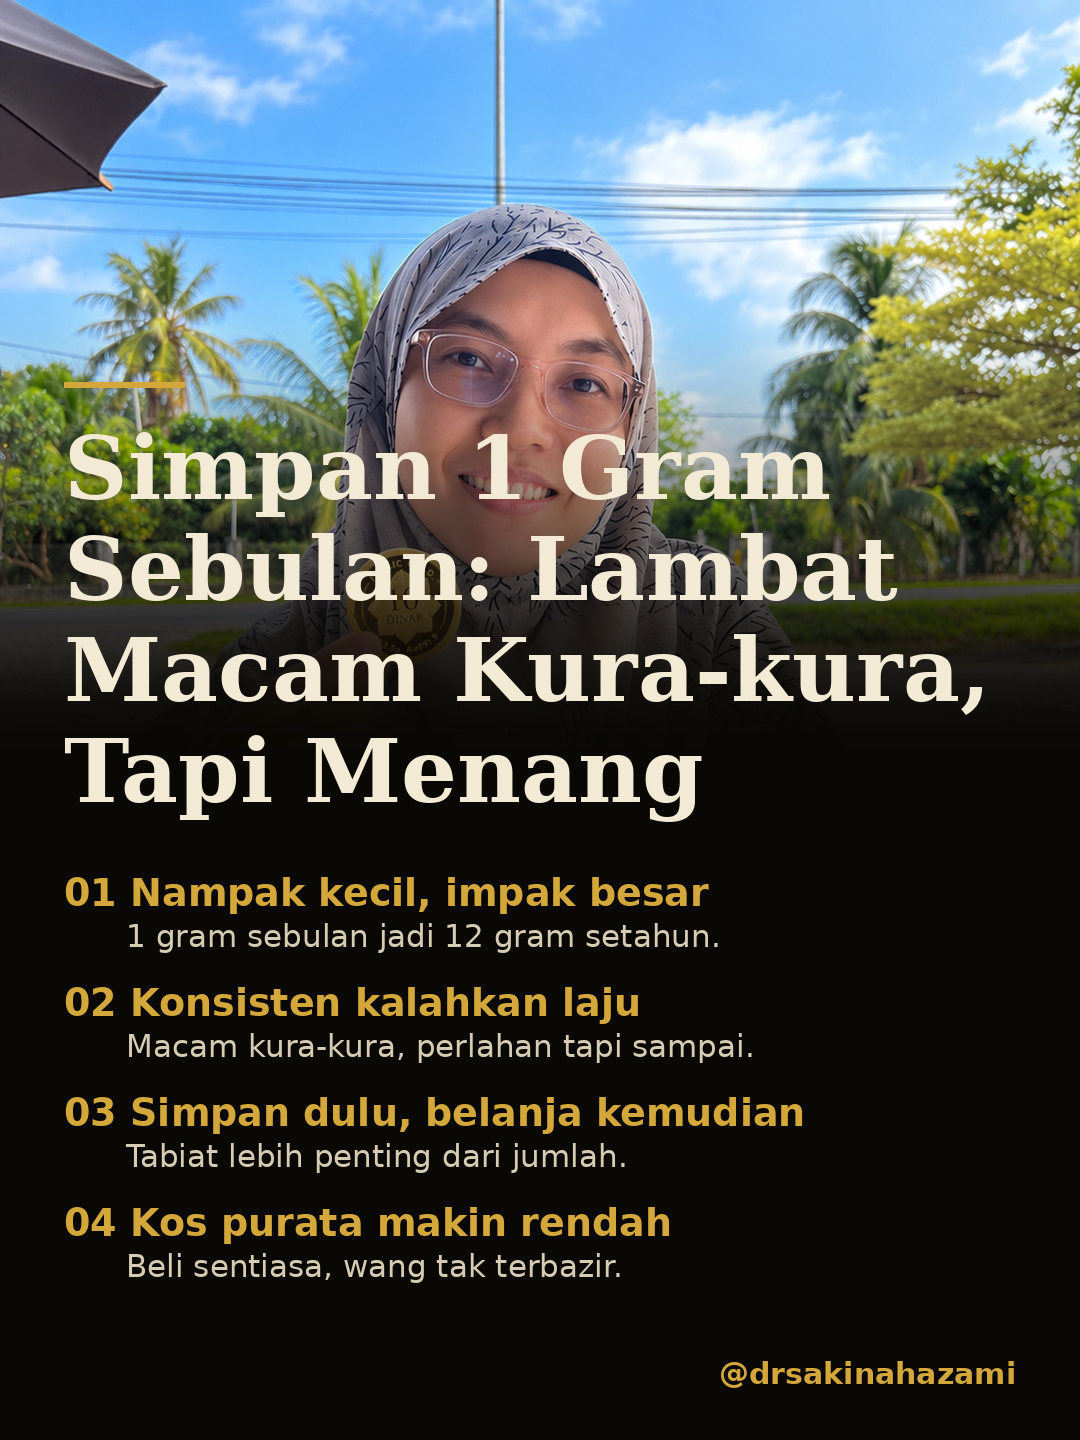
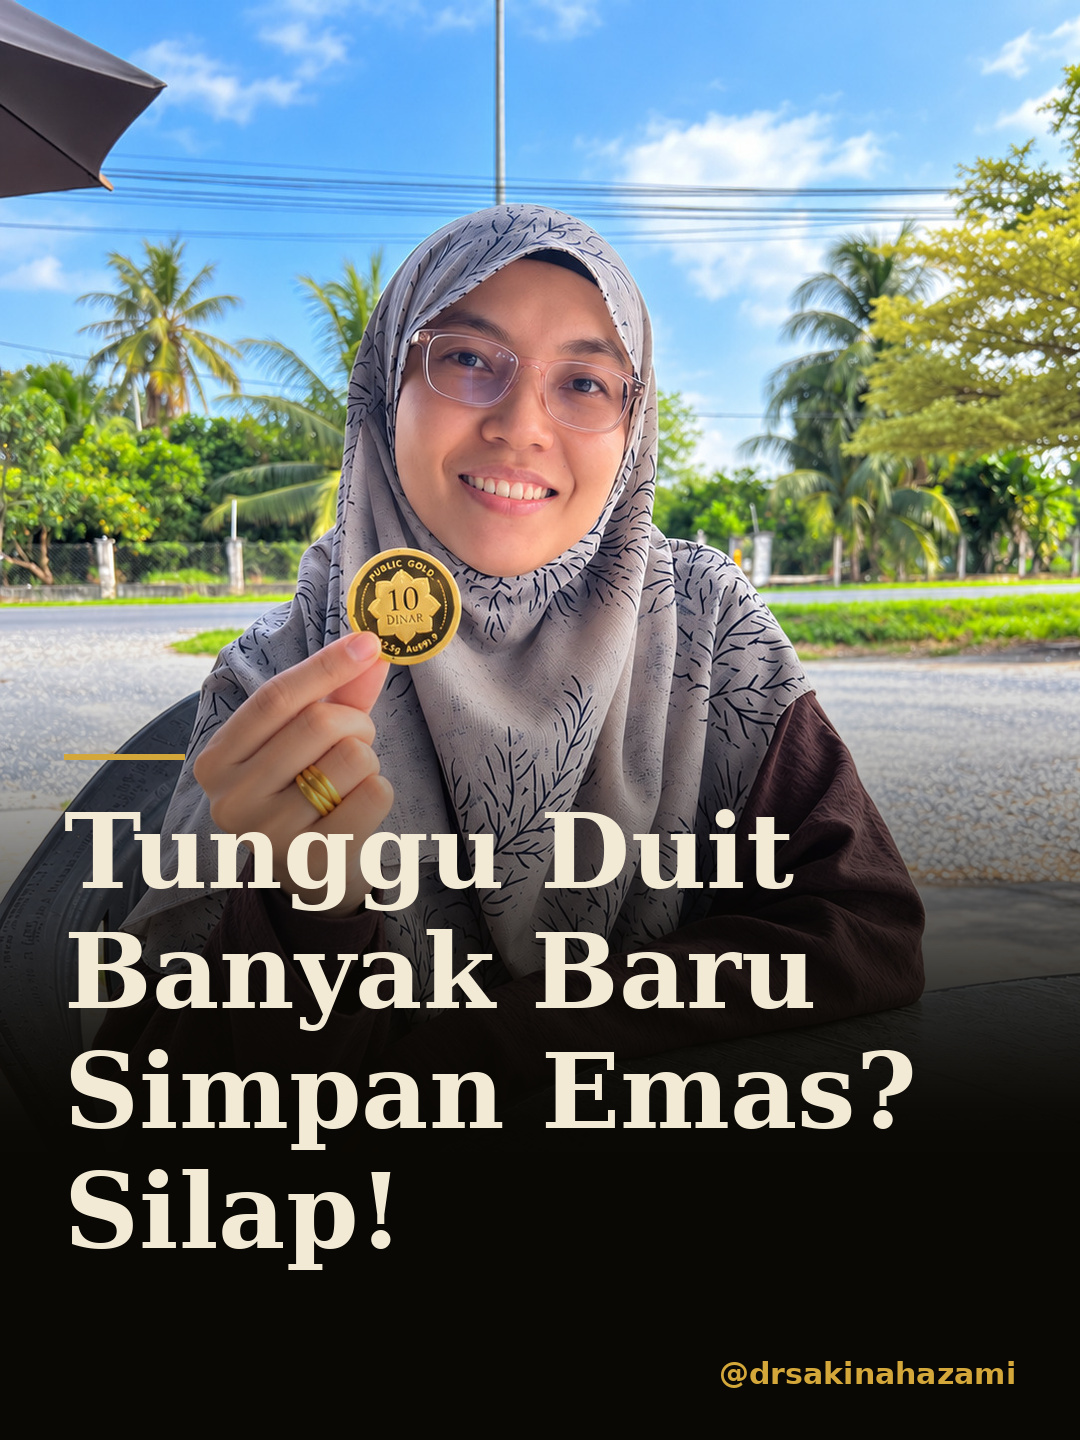
Style 1: satu foto + tajuk hook; caption untuk salin tampal
Claude-Session: https://claude.ai/code/session_01WZZgRbZokWogWq3umGQT9X

diff --git a/tiktok-auto/scheduled-task/render_slides.py b/tiktok-auto/scheduled-task/render_slides.py
@@ -205,6 +205,9 @@ def main():
     style = spec.get("style", "style1")
     title, photo, pts = spec["title"], spec["photo"], spec.get("points", [])
     if style == "style1":
+        # Style 1: SATU slide = foto Dr. Sakinah + tajuk hook sahaja (isi penuh ada dalam caption)
+        slides = [slide_cover(photo, title, 1, False)]
+    elif style == "style1_mata":
         slides = [slide_single(photo, title, pts[:5])]
     else:
         pts = pts[:8]

diff --git a/tiktok-auto/scheduled-task/ARAHAN.md b/tiktok-auto/scheduled-task/ARAHAN.md
@@ -12,7 +12,7 @@ Anda menyediakan content TikTok harian untuk Dr. Sakinah Azami (@drsakinahazami)
 
 ## Tetapan (ubah satu perkataan jika perlu)
 GAYA = STYLE1
-(STYLE1 = satu slide: foto + tajuk + mata ringkas dengan penerangan pendek. STYLE2 = beberapa slide bernombor "01 / NN" dengan "SWIPE →", tanpa caption pada slide.)
+(STYLE1 = SATU slide: foto Dr. Sakinah + tajuk hook sahaja; isi penuh ada dalam caption yang boleh disalin tampal. STYLE2 = beberapa slide bernombor "01 / NN" dengan "SWIPE →", tanpa caption pada slide.)
 
 ## Persediaan
 1. Sambung repo `phantagiro88/phantagiro` dengan akses push (add_repo, access push), clone, dan masuk folder `tiktok-auto/` di dalamnya. Semua laluan di bawah relatif kepada folder itu.
@@ -35,10 +35,9 @@ GAYA = STYLE1
 ## Langkah 4: sediakan slide
 Tulis `spec.json` sementara (di luar repo, contoh `/tmp/spec.json`):
 ```
-{"style":"style1","photo":"photos/NAMA.jpg","title":"<tajuk photomode>",
- "points":[{"head":"<mata 1, maks 6 patah perkataan>","body":"<penerangan 1 ayat pendek>"}, ...]}
+{"style":"style1","photo":"photos/NAMA.jpg","title":"<tajuk HOOK pendek, maks 8 patah perkataan, bentuk kesilapan atau soalan>"}
 ```
-- STYLE1: 3 hingga 4 mata. Setiap penerangan satu ayat pendek (maks kira-kira 70 aksara) supaya muat pada slide.
+- STYLE1: tiada "points". Tajuk mestilah hook (contoh: "Tunggu Duit Banyak Baru Simpan Emas? Silap!"), bukan tajuk artikel penuh. Semua isi, mata dan penerangan masuk dalam caption.
 - STYLE2: tukar `"style":"style2"`, sehingga 7 mata, dan tambah `"closing":"Ikut @drsakinahazami dan daftar Public Gold percuma. Link di bio."`.
 - Mata mesti datang daripada isi artikel, bukan pendapat anda.
 
